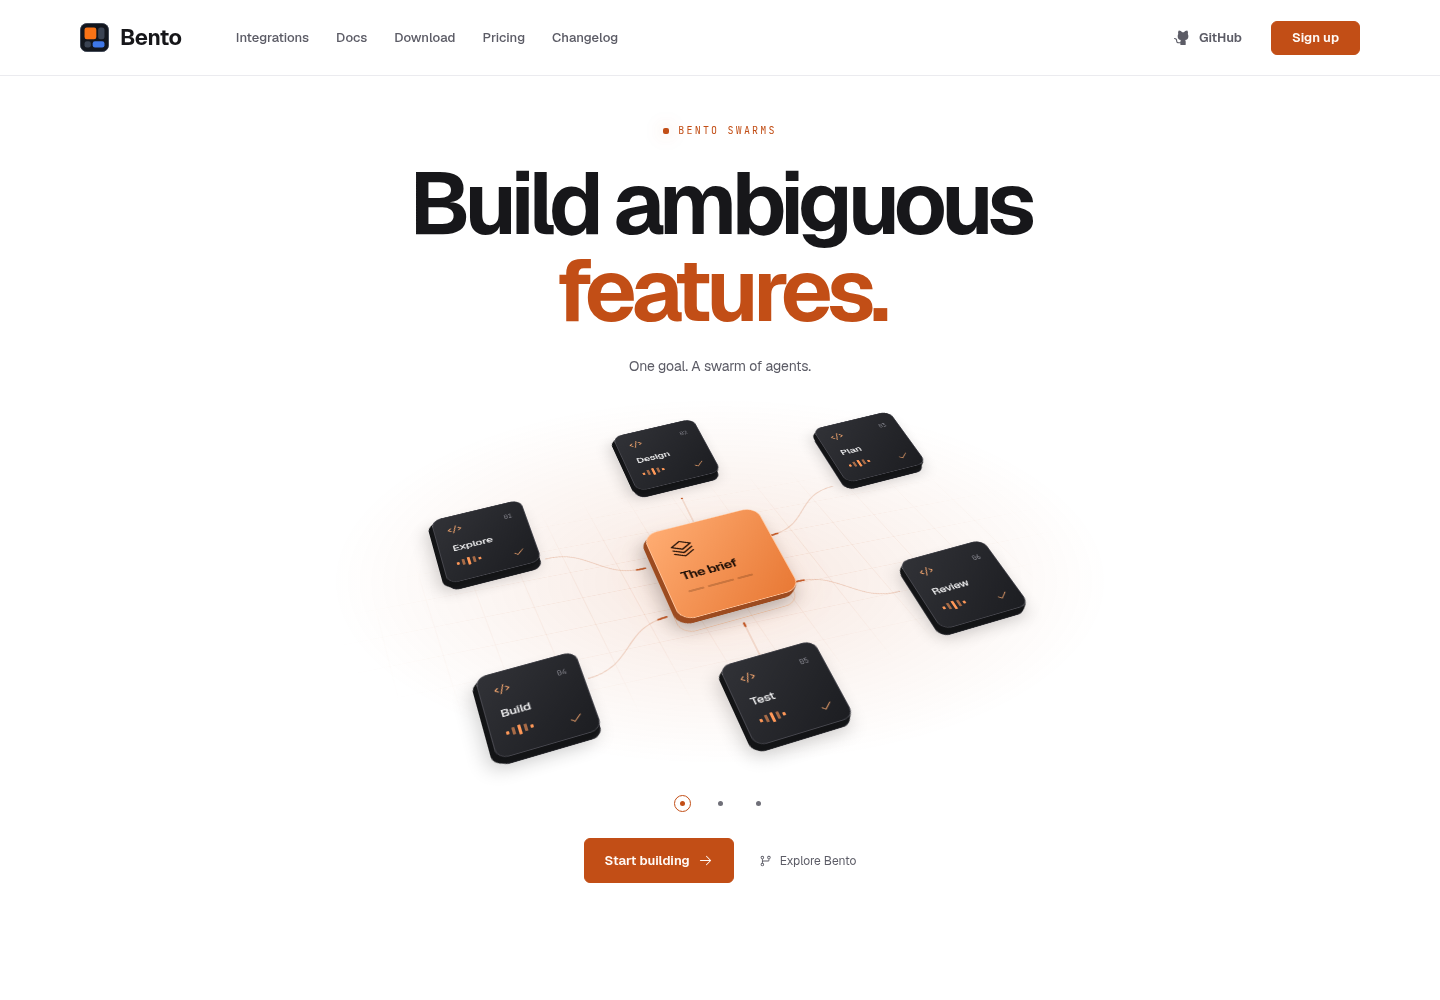
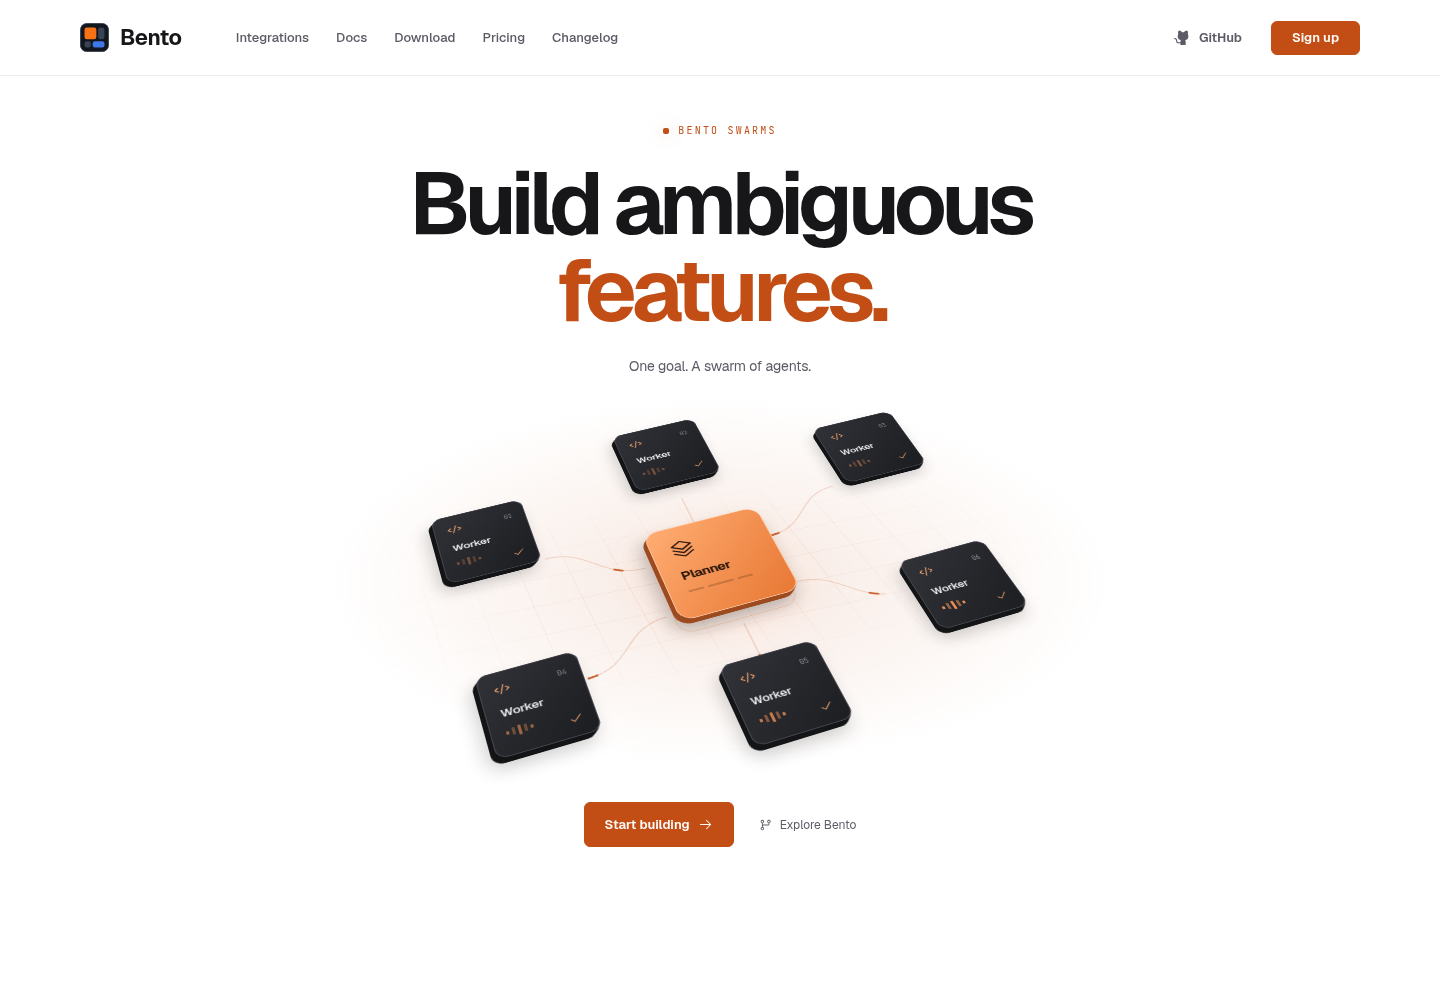
Focus swarms on one planner spawning six worker agents

diff --git a/components/swarms/swarm-hero.tsx b/components/swarms/swarm-hero.tsx
@@ -2,33 +2,17 @@
 
 import Link from "next/link";
 import { useEffect, useState, type CSSProperties } from "react";
-import { ArrowRight, Check, Code, GitBranch, GitPullRequest, Stack } from "@phosphor-icons/react";
+import { ArrowRight, Check, Code, GitBranch, Stack } from "@phosphor-icons/react";
 import { CtaLink } from "@/components/cta-link";
 import { siteConfig } from "@/lib/site";
 
-const scenes = [
-  {
-    title: "Build ambiguous features.", lines: ["Build ambiguous", "features."], core: "The brief",
-    labels: ["Explore", "Design", "Plan", "Build", "Test", "Review"],
-    positions: [[-235, -120], [0, -190], [235, -120], [-235, 120], [0, 190], [235, 120]],
-    origin: [0, 0], edges: [[-1, 0], [-1, 1], [-1, 2], [-1, 3], [-1, 4], [-1, 5]],
-    description: "A brief branches into exploration, design, planning, implementation, testing, and review.",
-  },
-  {
-    title: "One-shot the migration.", lines: ["One-shot the", "migration."], core: "Migration",
-    labels: ["Schema", "Inventory", "API", "Workers", "Verify", "Backfill"],
-    positions: [[-100, -105], [-100, 105], [90, -105], [90, 105], [280, -105], [280, 105]],
-    origin: [-280, 0], edges: [[-1, 0], [-1, 1], [0, 2], [1, 3], [2, 4], [3, 5]],
-    description: "Agents coordinate a migration across schema, inventory, API, workers, verification, and backfill in two connected lanes.",
-  },
-  {
-    title: "Ship the whole initiative.", lines: ["Ship the whole", "initiative."], core: "One PR",
-    labels: ["Web", "API", "Data", "Tests", "Docs", "Review"],
-    positions: [[-235, -140], [-235, 0], [-235, 140], [5, -140], [5, 0], [5, 140]],
-    origin: [260, 0], edges: [[0, 3], [1, 4], [2, 5], [3, -1], [4, -1], [5, -1]],
-    description: "Parallel agents handle web, API, data, tests, documentation, and review, then converge on a single pull request.",
-  },
+const headlines = [
+  { title: "Build ambiguous features.", lines: ["Build ambiguous", "features."] },
+  { title: "One-shot the migration.", lines: ["One-shot the", "migration."] },
+  { title: "Ship the whole initiative.", lines: ["Ship the whole", "initiative."] },
 ] as const;
+
+const workers = [[-235, -120], [0, -190], [235, -120], [-235, 120], [0, 190], [235, 120]] as const;
 
 function connection(from: readonly number[], to: readonly number[], fromCore: boolean, toCore: boolean) {
   const dx = to[0] - from[0];
@@ -44,14 +28,13 @@ function connection(from: readonly number[], to: readonly number[], fromCore: bo
 
 export function SwarmHero() {
   const [active, setActive] = useState(0);
-  const [selected, setSelected] = useState(false);
   useEffect(() => {
     const preference = window.matchMedia("(prefers-reduced-motion: reduce)");
     let timer: ReturnType<typeof setInterval> | undefined;
     const sync = () => {
       clearInterval(timer);
-      if (selected || preference.matches || document.hidden) return;
-      timer = setInterval(() => setActive(index => (index + 1) % scenes.length), 7200);
+      if (preference.matches || document.hidden) return;
+      timer = setInterval(() => setActive(index => (index + 1) % headlines.length), 7200);
     };
     sync();
     preference.addEventListener("change", sync);
@@ -61,40 +44,38 @@ export function SwarmHero() {
       preference.removeEventListener("change", sync);
       document.removeEventListener("visibilitychange", sync);
     };
-  }, [selected]);
-  const scene = scenes[active];
-  return <div className="swarm-experience" data-scene={active}>
+  }, []);
+  const headline = headlines[active];
+  return <div className="swarm-experience">
     <div className="swarm-heading">
       <div className="swarm-eyebrow"><span /> BENTO SWARMS</div>
-      <h1 aria-label={scene.title}>
-        {scenes.map((item, index) => <span className="swarm-title" data-active={active === index} key={item.title} aria-hidden="true"><span>{item.lines[0]}</span><span>{item.lines[1]}</span></span>)}
+      <h1 aria-label={headline.title}>
+        {headlines.map((item, index) => <span className="swarm-title" data-active={active === index} key={item.title} aria-hidden="true"><span>{item.lines[0]}</span><span>{item.lines[1]}</span></span>)}
       </h1>
       <p>One goal. A swarm of agents.</p>
     </div>
-    <div className="swarm-stage" role="img" aria-label={scene.description}>
+    <div className="swarm-stage" role="img" aria-label="A planner agent spawns six worker agents, delegating parallel tasks through connected branches.">
       <div className="swarm-halo" aria-hidden="true" />
       <div className="swarm-grid" aria-hidden="true" />
       <div className="swarm-world" aria-hidden="true">
         <svg className="swarm-connections" viewBox="-430 -300 860 600" fill="none">
-          {scenes.map((item, index) => <g className="swarm-edges" data-active={active === index} key={item.title}>
-            {item.edges.map(([from, to], edge) => {
-              const path = connection(from === -1 ? item.origin : item.positions[from], to === -1 ? item.origin : item.positions[to], from === -1, to === -1);
-              return <g key={edge}><path className="swarm-edge-track" d={path} /><path className="swarm-edge-signal" d={path} pathLength="100" style={{ "--order": edge } as CSSProperties} /></g>;
-            })}
-          </g>)}
+          {workers.map((position, index) => {
+            const path = connection([0, 0], position, true, false);
+            return <g className="swarm-branch" key={index} style={{ "--order": index } as CSSProperties}>
+              <path className="swarm-edge-track" d={path} pathLength="100" />
+              <path className="swarm-edge-signal" d={path} pathLength="100" />
+            </g>;
+          })}
         </svg>
-        <div className="swarm-core" style={{ "--x": `${scene.origin[0]}px`, "--y": `${scene.origin[1]}px` } as CSSProperties}>
+        <div className="swarm-core" style={{ "--x": "0px", "--y": "0px" } as CSSProperties}>
           <div className="swarm-core-floor" />
-          <div className="swarm-core-face"><div className="swarm-core-mark">{active === 2 ? <GitPullRequest size={29} /> : <Stack size={29} />}</div><strong>{scene.core}</strong><div className="swarm-core-bars"><i /><i /><i /></div></div>
+          <div className="swarm-core-face"><div className="swarm-core-mark"><Stack size={29} /></div><strong>Planner</strong><div className="swarm-core-bars"><i /><i /><i /></div></div>
         </div>
-        {scene.labels.map((label, index) => <div className="swarm-agent" key={index} style={{ "--x": `${scene.positions[index][0]}px`, "--y": `${scene.positions[index][1]}px`, "--order": index } as CSSProperties}>
+        {workers.map((position, index) => <div className="swarm-agent" key={index} style={{ "--x": `${position[0]}px`, "--y": `${position[1]}px`, "--order": index } as CSSProperties}>
           <div className="swarm-agent-shadow" />
-          <div className="swarm-agent-face"><div className="swarm-agent-top"><Code size={16} /><span>0{index + 1}</span></div><strong>{label}</strong><div className="swarm-agent-activity"><i /><i /><i /><i /><i /></div><Check className="swarm-agent-check" size={14} /></div>
+          <div className="swarm-agent-face"><div className="swarm-agent-top"><Code size={16} /><span>0{index + 1}</span></div><strong>Worker</strong><div className="swarm-agent-activity"><i /><i /><i /><i /><i /></div><Check className="swarm-agent-check" size={14} /></div>
         </div>)}
       </div>
-    </div>
-    <div className="swarm-controls" role="group" aria-label="Explore swarm scenarios">
-      {scenes.map((item, index) => <button type="button" aria-label={item.title} title={item.title} aria-pressed={active === index} key={item.title} onClick={() => { setActive(index); setSelected(true); }}><span /></button>)}
     </div>
     <div className="swarm-actions"><CtaLink href={siteConfig.signupUrl}>Start building <ArrowRight size={15} aria-hidden="true" /></CtaLink><Link href="/docs"><GitBranch size={14} aria-hidden="true" /> Explore Bento</Link></div>
   </div>;

diff --git a/e2e/swarms.spec.ts b/e2e/swarms.spec.ts
@@ -1,44 +1,50 @@
 import { test, expect } from "@playwright/test";
 
-test("scenarios remain accessible and fit desktop and mobile", async ({ page }) => {
+test("one planner and six workers fit desktop and mobile", async ({ page }) => {
   for (const width of [320, 375, 768, 1440]) {
     await page.setViewportSize({width, height: 1000});
     await page.goto("/swarms");
-    await expect(page.getByRole("heading", {level: 1})).toHaveAccessibleName("Build ambiguous features.");
-    const titles = ["Build ambiguous features.", "One-shot the migration.", "Ship the whole initiative."];
-    for (const title of titles) {
-      await page.getByRole("button", {name: title, exact: true}).click();
-      await expect(page.getByRole("heading", {level: 1})).toHaveAccessibleName(title);
-      await expect(page.getByRole("button", {name: title, exact: true})).toHaveAttribute("aria-pressed", "true");
-      expect(await page.evaluate(() => document.documentElement.scrollWidth <= innerWidth)).toBe(true);
-      const stage = await page.locator(".swarm-stage").boundingBox();
-      for (const card of await page.locator(".swarm-agent, .swarm-core").all()) {
-        const box = await card.boundingBox();
-        expect(box!.x).toBeGreaterThanOrEqual(0);
-        expect(box!.x + box!.width).toBeLessThanOrEqual(width);
-        expect(box!.y).toBeGreaterThanOrEqual(stage!.y);
-        expect(box!.y + box!.height).toBeLessThanOrEqual(stage!.y + stage!.height);
-      }
+    await expect(page.getByRole("img", {name: /planner agent spawns six worker agents/})).toBeVisible();
+    await expect(page.locator(".swarm-core")).toHaveText("Planner");
+    await expect(page.locator(".swarm-agent")).toHaveCount(6);
+    await expect(page.locator(".swarm-controls")).toHaveCount(0);
+    expect(await page.evaluate(() => document.documentElement.scrollWidth <= innerWidth)).toBe(true);
+    const stage = await page.locator(".swarm-stage").boundingBox();
+    for (const card of await page.locator(".swarm-agent, .swarm-core").all()) {
+      const box = await card.boundingBox();
+      expect(box!.x).toBeGreaterThanOrEqual(0);
+      expect(box!.x + box!.width).toBeLessThanOrEqual(width);
+      expect(box!.y).toBeGreaterThanOrEqual(stage!.y);
+      expect(box!.y + box!.height).toBeLessThanOrEqual(stage!.y + stage!.height);
     }
   }
 });
 
-test("automatically rotates and holds a manually selected scenario", async ({ page }) => {
+test("workers spawn out of the planner while headlines rotate independently", async ({ page }) => {
   await page.emulateMedia({reducedMotion: "no-preference"});
   await page.goto("/swarms");
+  const worker = page.locator(".swarm-agent").first();
+  const sample = async (time: number) => worker.evaluate((element, currentTime) => {
+    const animation = element.getAnimations().find(item => (item as CSSAnimation).animationName === "swarm-spawn")!;
+    animation.pause();
+    animation.currentTime = currentTime;
+    return {opacity: getComputedStyle(element).opacity, transform: getComputedStyle(element).transform};
+  }, time);
+  const initial = await sample(0);
+  const spawned = await sample(3000);
+  expect(initial.opacity).toBe("0");
+  expect(spawned.opacity).toBe("1");
+  expect(spawned.transform).not.toBe(initial.transform);
   await expect(page.getByRole("heading", {level: 1})).toHaveAccessibleName("One-shot the migration.", {timeout: 12000});
-  await page.clock.install();
-  await page.getByRole("button", {name: "Ship the whole initiative.", exact: true}).click();
-  await page.clock.fastForward(15000);
-  await expect(page.getByRole("heading", {level: 1})).toHaveAccessibleName("Ship the whole initiative.");
+  await expect(page.locator(".swarm-core")).toHaveText("Planner");
+  await expect(page.locator(".swarm-agent")).toHaveCount(6);
 });
 
-test("reduced motion keeps the opening scene still and supports keyboard selection", async ({ page }) => {
-  await page.clock.install();
+test("reduced motion shows the complete static swarm", async ({ page }) => {
   await page.goto("/swarms");
-  await page.clock.fastForward(15000);
+  for (const worker of await page.locator(".swarm-agent").all()) {
+    await expect(worker).toHaveCSS("opacity", "1");
+    await expect(worker).toHaveCSS("animation-name", "none");
+  }
   await expect(page.getByRole("heading", {level: 1})).toHaveAccessibleName("Build ambiguous features.");
-  await page.getByRole("button", {name: "One-shot the migration.", exact: true}).focus();
-  await page.keyboard.press("Enter");
-  await expect(page.getByRole("heading", {level: 1})).toHaveAccessibleName("One-shot the migration.");
 });

diff --git a/app/swarms/swarms.css b/app/swarms/swarms.css
@@ -13,8 +13,6 @@
 .swarm-grid { position: absolute; left: 50%; top: 50%; width: 760px; height: 400px; transform: translate(-50%, -50%) rotateX(57deg) rotateZ(-20deg); background-image: linear-gradient(color-mix(in srgb, var(--brand) 9%, transparent) 1px, transparent 1px), linear-gradient(90deg, color-mix(in srgb, var(--brand) 9%, transparent) 1px, transparent 1px); background-size: 48px 48px; mask-image: radial-gradient(ellipse, black 10%, transparent 70%); }
 .swarm-world { position: absolute; left: 50%; top: 50%; width: 0; height: 0; transform-style: preserve-3d; transform: scale(.9) rotateX(43deg) rotateZ(-20deg); }
 .swarm-connections { position: absolute; left: -430px; top: -300px; width: 860px; height: 600px; transform: translateZ(0); overflow: visible; }
-.swarm-edges { opacity: 0; transition: opacity 700ms ease; }
-.swarm-edges[data-active="true"] { opacity: 1; }
 .swarm-edge-track { stroke: var(--brand); stroke-width: 1.2; opacity: .24; }
 .swarm-edge-signal { stroke: var(--brand); stroke-width: 2.5; stroke-dasharray: 8 92; stroke-linecap: round; opacity: .9; }
 .swarm-core, .swarm-agent { position: absolute; transform: translate3d(var(--x), var(--y), 22px); transform-style: preserve-3d; transition: transform 1200ms cubic-bezier(.22,1,.36,1); }
@@ -38,17 +36,23 @@
 .swarm-agent-activity i:nth-child(2n) { height: 9px; opacity: .6; }
 .swarm-agent-activity i:nth-child(3) { height: 12px; }
 .swarm-agent-check { position: absolute; bottom: 14px; right: 13px; color: #ffad73; }
-.swarm-controls { position: relative; display: flex; justify-content: center; gap: 2px; z-index: 2; }
-.swarm-controls button { display: grid; place-items: center; width: 36px; height: 36px; padding: 0; border: 0; border-radius: 50%; background: none; color: var(--text-faint); cursor: pointer; }
-.swarm-controls button > span { width: 5px; height: 5px; border-radius: 50%; background: currentColor; }
-.swarm-controls button[aria-pressed="true"] { color: var(--brand); }
-.swarm-controls button[aria-pressed="true"] > span { outline: 1px solid var(--brand); outline-offset: 5px; }
-.swarm-controls button:focus-visible { outline: 2px solid var(--brand); outline-offset: 1px; }
 .swarm-actions { display: flex; align-items: center; justify-content: center; gap: 24px; margin-top: 17px; position: relative; z-index: 2; }
 .swarm-actions > a { display: inline-flex; align-items: center; gap: 8px; }
 .swarm-actions > a:last-child { color: var(--text-muted); font-size: 12px; }
 @media (prefers-reduced-motion: no-preference) {
-  .swarm-edges[data-active="true"] .swarm-edge-signal { animation: swarm-signal 2.8s linear infinite; animation-delay: calc(var(--order) * -.35s); }
+  .swarm-agent { animation: swarm-spawn 9s cubic-bezier(.22,1,.36,1) infinite both; animation-delay: calc(var(--order) * .28s); }
+  .swarm-branch { animation: swarm-branch-reveal 9s ease infinite both; animation-delay: calc(var(--order) * .28s); }
+  .swarm-edge-track { stroke-dasharray: 100; animation: swarm-draw 9s ease infinite both; animation-delay: calc(var(--order) * .28s); }
+  .swarm-edge-signal { animation: swarm-signal 2.8s linear infinite; animation-delay: calc(var(--order) * .28s); }
+  .swarm-core-mark { animation: swarm-plan 9s ease infinite; }
+  @keyframes swarm-spawn {
+    0%, 8% { opacity: 0; transform: translate3d(0, 0, 0) scale(.3); }
+    26%, 82% { opacity: 1; transform: translate3d(var(--x), var(--y), 22px) scale(1); }
+    94%, 100% { opacity: 0; transform: translate3d(var(--x), var(--y), 22px) scale(.92); }
+  }
+  @keyframes swarm-branch-reveal { 0%, 12%, 94%, 100% { opacity: 0; } 26%, 82% { opacity: 1; } }
+  @keyframes swarm-draw { 0%, 12% { stroke-dashoffset: 100; } 30%, 100% { stroke-dashoffset: 0; } }
+  @keyframes swarm-plan { 0%, 8% { opacity: .4; } 18%, 82% { opacity: 1; } 100% { opacity: .4; } }
   .swarm-agent-face { animation: swarm-float 3.6s ease-in-out infinite alternate; animation-delay: calc(var(--order) * -.45s); }
   .swarm-agent-activity { animation: swarm-activity 1.8s ease-in-out infinite alternate; animation-delay: calc(var(--order) * -.3s); }
   @keyframes swarm-signal { from { stroke-dashoffset: 100; } to { stroke-dashoffset: 0; } }
